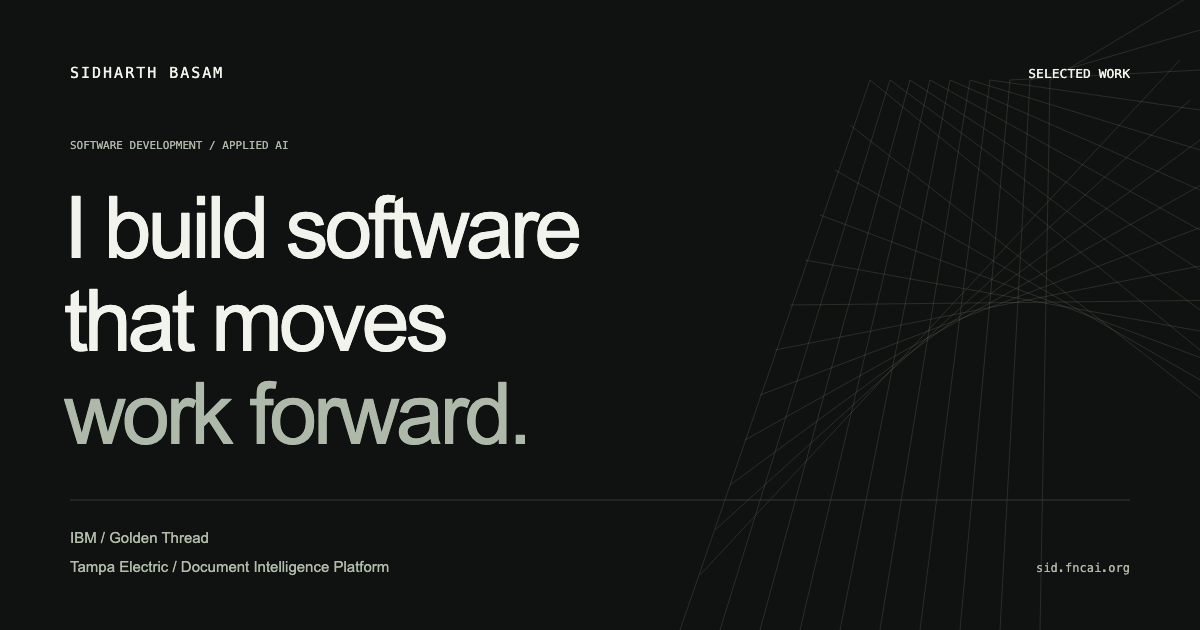
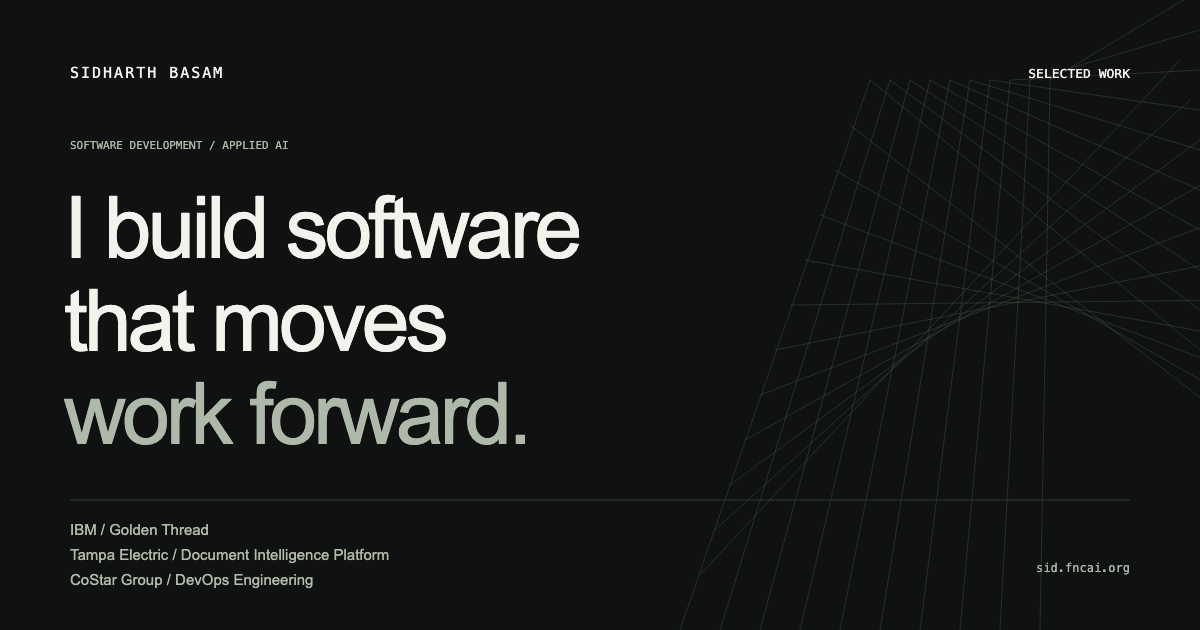
Add CoStar DevOps internship and configure personal GitHub Pages hosting

Changed region(s): [[0.0617, 0.8143, 0.3392, 0.9349]]

diff --git a/index.html b/index.html
@@ -4,9 +4,9 @@
     <meta charset="utf-8">
     <meta name="viewport" content="width=device-width, initial-scale=1">
     <meta name="theme-color" content="#101211">
-    <meta name="description" content="Sidharth Basam — software development at IBM and QA, prompt engineering, and document AI testing at Tampa Electric Company. Selected work: Golden Thread and the Document Intelligence Platform.">
+    <meta name="description" content="Sidharth Basam — software development at IBM, document AI testing at Tampa Electric Company, and DevOps engineering at CoStar Group. Enterprise software, cloud automation, and applied AI.">
     <meta property="og:title" content="Sidharth Basam — Selected work">
-    <meta property="og:description" content="Enterprise software, quality assurance, and document AI. Selected work at IBM and Tampa Electric Company.">
+    <meta property="og:description" content="Enterprise software, cloud automation, and document AI. Selected work at IBM, Tampa Electric Company, and CoStar Group.">
     <meta property="og:type" content="website">
     <meta property="og:url" content="https://sid.fncai.org/">
     <meta property="og:image" content="https://sid.fncai.org/assets/social-card.png">
@@ -41,19 +41,19 @@
           <div class="hero-kicker"><p class="eyebrow"><span class="live-dot" aria-hidden="true"></span> Software development / Applied AI</p><span class="hero-edition">Personal portfolio / 2026</span></div>
           <div class="hero-main">
             <h1 id="hero-heading">I build software<br>that moves<br><span>work forward.</span></h1>
-            <div class="hero-intro"><p class="hero-description">I’m Sidharth Basam. I work on enterprise applications and AI document workflows—from onboarding software at IBM to quality assurance and prompt testing at Tampa Electric Company.</p><a class="button button-light" href="#work">Explore selected work <span aria-hidden="true">↗</span></a></div>
+            <div class="hero-intro"><p class="hero-description">I’m Sidharth Basam. I build enterprise software, automate cloud infrastructure, and test AI document workflows. My experience spans IBM, Tampa Electric Company, and CoStar Group.</p><a class="button button-light" href="#work">Explore selected work <span aria-hidden="true">↗</span></a></div>
           </div>
           <div class="hero-bottom"><span>Systems. People. Possibility.</span><a href="#work">Scroll to explore <span aria-hidden="true">↓</span></a></div>
         </div>
       </section>
 
-      <div class="experience-strip"><div class="container experience-inner"><p class="eyebrow">Experience across<br>technology &amp; energy</p><span class="experience-company ibm-name">IBM</span><span class="strip-divider" aria-hidden="true"></span><span class="experience-company teco-name">Tampa Electric<span>Company</span></span><a class="strip-link" href="#about">The person behind the work <span aria-hidden="true">↗</span></a></div></div>
+      <div class="experience-strip"><div class="container experience-inner"><p class="eyebrow">Experience across<br>software, cloud &amp; AI</p><span class="experience-company ibm-name">IBM</span><span class="strip-divider" aria-hidden="true"></span><span class="experience-company teco-name">Tampa Electric<span>Company</span></span><span class="strip-divider" aria-hidden="true"></span><span class="experience-company costar-name">CoStar<span>Group</span></span><a class="strip-link" href="#about">The person behind the work <span aria-hidden="true">↗</span></a></div></div>
 
       <section class="work-section" id="work" aria-labelledby="work-heading">
         <div class="container">
         <div class="section-heading reveal">
           <div><p class="eyebrow section-index">01 / Selected work</p><h2 id="work-heading">Built. Tested.<br>Put to work.</h2></div>
-          <p class="section-description">Connecting enterprise software with the people who use it. A closer look at my work at IBM and Tampa Electric Company.</p>
+          <p class="section-description">Connecting enterprise software with the people who use it. A closer look at my work at IBM, Tampa Electric Company, and CoStar Group.</p>
         </div>
 
         <article class="work-row reveal" id="golden-thread" aria-labelledby="golden-heading">
@@ -137,6 +137,51 @@
           </div>
           <span class="work-status">QA / Prompt testing</span>
         </article>
+
+        <article class="work-row reveal" id="costar" aria-labelledby="costar-heading">
+          <div class="work-label">
+            <span class="work-number">03 /</span>
+            <div><p>CoStar Group</p><span>June–August 2025 · Irvine, CA</span></div>
+          </div>
+          <div class="project-visual"><img src="assets/devops-system.svg" alt="Diagram linking Terraform automation with Azure DevOps Pipelines, AWS S3, Podman, and Datadog" width="680" height="520" loading="lazy"><div class="visual-caption"><span>Infrastructure automation</span><span>Terraform / Azure DevOps</span></div></div>
+          <div class="work-content">
+            <h3 id="costar-heading">DevOps Engineering Intern</h3>
+            <p class="project-summary">Automated cloud infrastructure, monitoring, and provisioning workflows.</p>
+            <p class="work-description">Used Terraform and Azure DevOps Pipelines to automate infrastructure across testing environments. Built Datadog cost-monitoring and alert workflows, improved decommissioning processes, and deployed static websites on AWS S3.</p>
+            <details class="project-details" name="project-notes" id="costar-details">
+              <summary><span class="when-closed">View internship details</span><span class="when-open">Close internship details</span><span class="details-icon" aria-hidden="true"></span></summary>
+              <div class="case-study">
+                <p class="eyebrow case-eyebrow">CoStar Group / June–August 2025 / Irvine, CA</p>
+                <h4>DevOps Engineering Intern</h4>
+                <p>My internship focused on infrastructure automation, monitoring, and provisioning, with additional work on system decommissioning workflows and documentation.</p>
+                <h5>My contributions</h5>
+                <dl class="contribution-list">
+                  <div>
+                    <dt>Infrastructure automation</dt>
+                    <dd>Automated infrastructure processes using Terraform and Azure DevOps Pipelines, improving workflow efficiency across multiple testing environments.</dd>
+                  </div>
+                  <div>
+                    <dt>Monitoring &amp; alerting</dt>
+                    <dd>Developed Terraform-based Datadog automation to monitor cost changes and create alert workflows, improving visibility across the DevOps department.</dd>
+                  </div>
+                  <div>
+                    <dt>System decommissioning</dt>
+                    <dd>Analyzed and optimized existing system decommissioning workflows, with a focus on compliance and process documentation.</dd>
+                  </div>
+                  <div>
+                    <dt>Static website provisioning</dt>
+                    <dd>Created and deployed AWS S3 static websites using Terraform and Podman to automate provisioning pipelines.</dd>
+                  </div>
+                </dl>
+                <h5>Technology</h5>
+                <ul class="tech-list" aria-label="CoStar Group DevOps technology stack">
+                  <li>Terraform</li><li>Azure DevOps Pipelines</li><li>Datadog</li><li>AWS S3</li><li>Podman</li>
+                </ul>
+              </div>
+            </details>
+          </div>
+          <span class="work-status">DevOps internship</span>
+        </article>
         </div>
       </section>
 
@@ -150,6 +195,7 @@
         <dl class="capability-list">
           <div><dt>Application development</dt><dd>Angular and TypeScript frontends. Java and Spring Boot APIs.</dd></div>
           <div><dt>Authentication &amp; data</dt><dd>Single sign-on, session handling, and relational data integrity.</dd></div>
+          <div><dt>Infrastructure automation</dt><dd>Terraform, Azure DevOps Pipelines, Datadog monitoring, and AWS S3 provisioning.</dd></div>
           <div><dt>Quality assurance</dt><dd>REST API testing and evaluation of AI document processing.</dd></div>
           <div><dt>Prompt engineering</dt><dd>Testing prompts for document classification and date extraction.</dd></div>
         </dl>
@@ -162,7 +208,7 @@
         <div class="about-content">
           <h2 id="about-heading">Sidharth Basam.<br><span>You can call me Sid.</span></h2>
           <div class="about-copy">
-            <p>My work spans software development at IBM and document AI testing at Tampa Electric Company. I’m interested in how software can make everyday work easier—and how careful testing can make it more dependable.</p>
+            <p>My work spans software development at IBM, document AI testing at Tampa Electric Company, and DevOps engineering at CoStar Group. I’m interested in how software and automation can make everyday work easier—and how careful testing can make it more dependable.</p>
             <a class="text-link" href="#work">Explore my work <span aria-hidden="true">↗</span></a>
           </div>
         </div>

diff --git a/styles.css b/styles.css
@@ -63,8 +63,8 @@ h1 > span { color: #aeb9aa; }
 .experience-inner > .eyebrow { font-size: 9px; color: var(--muted); line-height: 1.8; margin-right: 22px; }
 .experience-company { font-size: 29px; letter-spacing: -1px; }
 .ibm-name { font-family: Georgia, serif; font-weight: 700; letter-spacing: 1.2px; font-size: 42px; }
-.teco-name { font-weight: 500; font-size: 25px; line-height: .9; }
-.teco-name > span { display: block; font-family: var(--mono); font-size: 8px; font-weight: 400; letter-spacing: 3px; margin-top: 9px; text-transform: uppercase; }
+.teco-name, .costar-name { font-weight: 500; font-size: 25px; line-height: .9; }
+.teco-name > span, .costar-name > span { display: block; font-family: var(--mono); font-size: 8px; font-weight: 400; letter-spacing: 3px; margin-top: 9px; text-transform: uppercase; }
 .strip-divider { width: 1px; height: 35px; background: var(--line); }
 .strip-link { display: inline-flex; align-items: center; gap: 26px; font-size: 11px; margin-left: auto; }
 .strip-link span { font-size: 20px; }
@@ -158,7 +158,7 @@ h3 { font-size: clamp(42px, 4.1vw, 62px); line-height: 1.06; font-weight: 400; l
   .experience-inner { gap: 34px; min-height: 130px; }
   .experience-inner > .eyebrow { margin-right: 0; font-size: 8px; }
   .strip-link { font-size: 9px; gap: 15px; }
-  .teco-name { font-size: 22px; }
+  .teco-name, .costar-name { font-size: 22px; }
   .section-heading { gap: 48px; margin-bottom: 65px; }
   .section-description { font-size: 14px; max-width: 260px; }
   .work-row { gap: 28px 48px; }
@@ -184,12 +184,12 @@ h3 { font-size: clamp(42px, 4.1vw, 62px); line-height: 1.06; font-weight: 400; l
   .hero-intro { margin-left: auto; max-width: 360px; }
   .hero-description { font-size: 14px; }
   .hero-art { background-position: 62% center; mask-image: linear-gradient(90deg, transparent, #000 65%); }
-  .experience-inner { flex-wrap: wrap; gap: 27px; padding-block: 28px; min-height: 0; }
-  .experience-inner > .eyebrow { margin-right: auto; }
+  .experience-inner { display: grid; grid-template-columns: repeat(3, max-content); justify-content: space-between; gap: 25px 20px; padding-block: 28px; min-height: 0; }
+  .experience-inner > .eyebrow { grid-column: 1 / -1; margin-right: 0; }
   .experience-company.ibm-name { font-size: 34px; }
-  .teco-name { font-size: 21px; }
+  .teco-name, .costar-name { font-size: 21px; }
   .strip-link { display: none; }
-  .strip-divider { height: 29px; }
+  .strip-divider { display: none; }
   .work-section { padding-block: 75px 20px; }
   .section-heading { gap: 36px; margin-bottom: 55px; }
   h2 { font-size: 62px; letter-spacing: -3px; }
@@ -239,10 +239,10 @@ h3 { font-size: clamp(42px, 4.1vw, 62px); line-height: 1.06; font-weight: 400; l
   .hero-bottom a span { font-size: 15px; }
   .hero-art { background-position: 65% center; opacity: .55; mask-image: linear-gradient(90deg, transparent, #000 80%); }
   .experience-inner { gap: 19px; padding-block: 27px; }
-  .experience-inner > .eyebrow { font-size: 6px; letter-spacing: .2px; margin-right: auto; }
+  .experience-inner > .eyebrow { font-size: 8px; letter-spacing: .2px; margin-right: 0; }
   .experience-company.ibm-name { font-size: 27px; }
-  .teco-name { font-size: 16px; letter-spacing: -.5px; }
-  .teco-name > span { font-size: 6px; letter-spacing: 2px; margin-top: 6px; }
+  .teco-name, .costar-name { font-size: 16px; letter-spacing: -.5px; }
+  .teco-name > span, .costar-name > span { font-size: 6px; letter-spacing: 2px; margin-top: 6px; }
   .strip-divider { height: 25px; }
   .work-section { padding-top: 58px; }
   .section-heading { display: block; margin-bottom: 39px; }

diff --git a/README.md b/README.md
@@ -14,7 +14,7 @@ Open http://localhost:8000. The site also works by opening `index.html` directly
 
 ## Content and editing
 
-The site includes the owner’s supplied Golden Thread contributions at IBM and QA, prompt engineering, and testing work on Tampa Electric’s Document Intelligence Platform. Golden Thread’s team achievements are distinguished from individual contributions. The cloud evaluation is omitted because its authorship has not been confirmed. Colleague names, email addresses, internal links, and unverified impact metrics are not included.
+The site includes the owner’s supplied Golden Thread contributions at IBM; QA, prompt engineering, and testing work on Tampa Electric’s Document Intelligence Platform; and the DevOps Engineering Intern position at CoStar Group (June–August 2025, Irvine, CA), drawn from the supplied résumé. Golden Thread’s team achievements are distinguished from individual contributions. The cloud evaluation is omitted because its authorship has not been confirmed. Colleague names, email addresses, internal links, and unverified impact metrics are not included.
 
 - Edit `index.html` for all copy, including the expandable project details.
 - Edit `styles.css` for colors, spacing, and typography.
@@ -22,15 +22,18 @@ The site includes the owner’s supplied Golden Thread contributions at IBM and 
 - Add public contact links to the footer when available.
 - `assets/social-card.svg` is the editable source for the PNG social preview; regenerate `assets/social-card.png` after changing the source.
 
-## Publish on GitHub Pages
+## GitHub Pages
 
-1. Create a GitHub repository and upload these files, including `.github/workflows/deploy.yml`, `.nojekyll`, and `CNAME`. Preserve the folder structure.
-2. Under **Settings → Pages → Build and deployment**, select **GitHub Actions**.
-3. Push to `main` or `master`, or run **Deploy portfolio to GitHub Pages** from the **Actions** tab. The workflow publishes only the site files.
-4. Under **Settings → Pages → Custom domain**, enter `sid.fncai.org`.
-5. At the DNS provider for `fncai.org`, point the **`sid` CNAME record** to **`SididduB807.github.io`** (no repository path or protocol). The previous target, `brandon-ibm.github.io`, belongs to a different GitHub account.
-6. Once GitHub verifies DNS and provisions the certificate, enable **Enforce HTTPS**. `http://sid.fncai.org/` will redirect to HTTPS.
+- Repository: https://github.com/SididduB807/sid.fncai.org
+- GitHub Pages URL: https://sididdub807.github.io/sid.fncai.org/
+- Deployment history: https://github.com/SididduB807/sid.fncai.org/actions
 
-Alternatively, publish directly from the root of the default branch using GitHub Pages’ **Deploy from a branch** option; no workflow is needed for that method.
+GitHub Pages is configured to deploy through GitHub Actions. Every push to `main` or `master` runs `.github/workflows/deploy.yml`; the workflow can also be started manually from the Actions tab. It publishes only the public site files.
 
-The repository, GitHub Pages settings, and DNS still need to be connected before the site is live. `CNAME` declares the domain; it does not update DNS.
+## Custom domain
+
+1. At the DNS provider for `fncai.org`, point the **`sid` CNAME record** to **`SididduB807.github.io`** (no repository path or protocol). The previous target, `brandon-ibm.github.io`, belongs to a different GitHub account.
+2. Once DNS is updated, set **Settings → Pages → Custom domain** to `sid.fncai.org`.
+3. After GitHub verifies DNS and provisions the certificate, enable **Enforce HTTPS**. `http://sid.fncai.org/` will redirect to HTTPS.
+
+The GitHub Pages URL works independently until the custom domain is connected. The checked-in `CNAME` file declares the intended domain; GitHub Actions publishing also requires setting the domain in the repository’s Pages settings.
